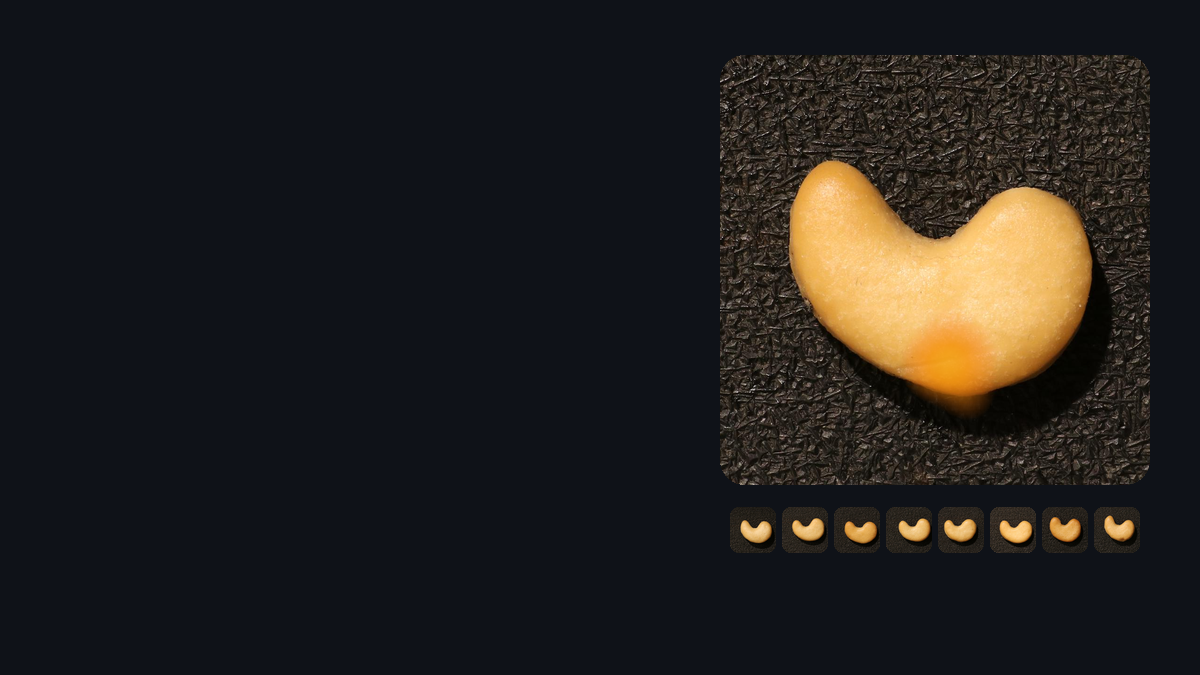
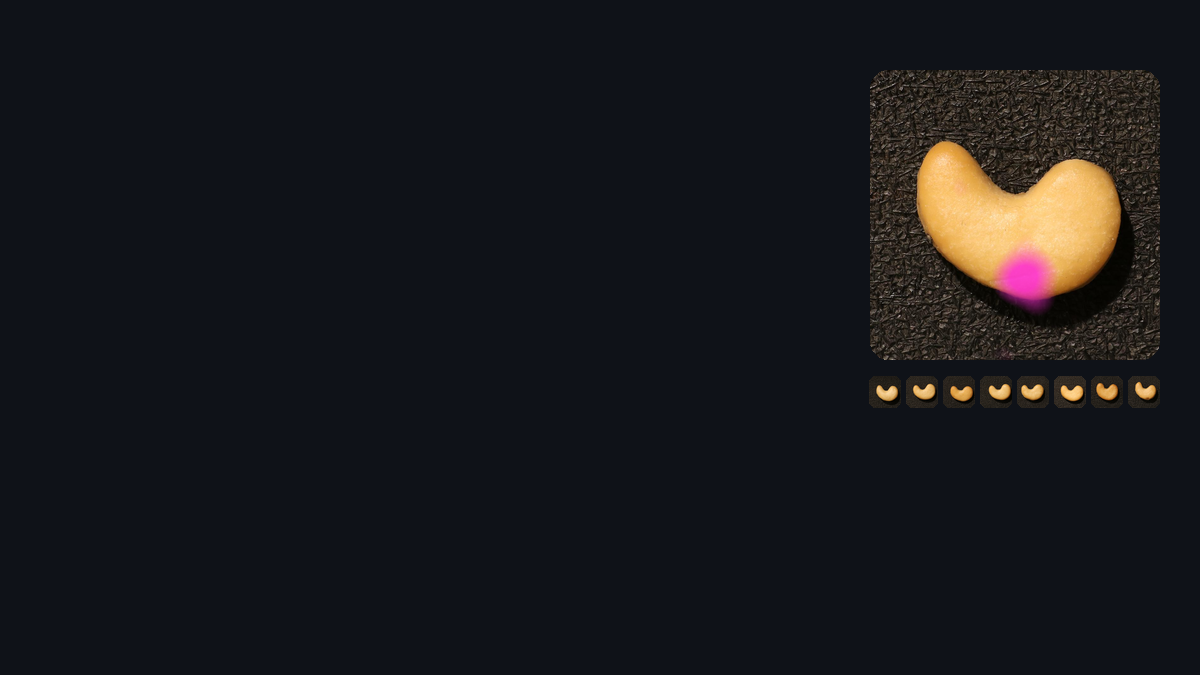
post_images.py (heat figure + cover bg, magenta); video heat in magenta, tighter

Changed region(s): [[0.5858, 0.0622, 0.9867, 0.7156], [0.5858, 0.7467, 0.9558, 0.84]]

diff --git a/scripts/post_images.py b/scripts/post_images.py
@@ -1,0 +1,80 @@
+"""Raster images for the post: the PatchCore heat-map figure and the cover background.
+
+Heat is drawn in magenta: most VisA products (cashew, macaroni, candles, fryum) are yellow or
+orange, and an amber overlay disappears on them.
+  uv run python scripts/post_images.py <site public/blog/<slug> dir> [--maps results/demo/visa-maps]
+"""
+import argparse
+import json
+from pathlib import Path
+
+import numpy as np
+from PIL import Image, ImageDraw, ImageFilter
+
+from jev_inspection import visa
+
+HEAT = np.array([255, 43, 214], np.float32)  # magenta
+GT = (45, 212, 191)  # ground-truth outline, teal
+
+ap = argparse.ArgumentParser()
+ap.add_argument("public", type=Path)
+ap.add_argument("--maps", type=Path, default=Path("results/maps-k16-s0-256"),
+                help="PatchCore k=16 seed 0 maps at 256 px, saved by the main run (--maps-for 16 0)")
+ap.add_argument("--cover", type=Path, default=Path("output/cover-bg.png"))
+a = ap.parse_args()
+root = visa.DEFAULT_ROOT
+IMG = "cashew/Data/Images/Anomaly/086.JPG"
+MASK = "cashew/Data/Masks/Anomaly/086.png"
+
+
+def overlay(img: Image.Image, m: np.ndarray, start=0.55, span=0.35, alpha=0.85) -> Image.Image:
+    """Blend magenta where the map is in the top part of this image's range."""
+    hv = (m - m.min()) / max(1e-6, m.max() - m.min())
+    hv = np.asarray(Image.fromarray((hv * 255).astype(np.uint8)).resize(img.size, Image.BILINEAR)) / 255.0
+    al = (np.clip((hv - start) / span, 0, 1) * alpha)[..., None]
+    return Image.fromarray((np.asarray(img).astype(np.float32) * (1 - al) + HEAT * al).astype(np.uint8))
+
+
+m = np.load(a.maps / "cashew_k16_s0" / (IMG.replace("/", "__") + ".npy")).astype(np.float32)
+im = Image.open(root / IMG).convert("RGB")
+
+# Figure: the photo, and the same photo with the heat and the ground-truth outline.
+side = 560
+h = int(side * im.height / im.width)
+photo = im.resize((side, h), Image.LANCZOS)
+heat = overlay(photo, m)
+gt = Image.open(root / MASK).convert("L").resize((side, h), Image.NEAREST)
+edge = gt.point(lambda v: 255 if v > 0 else 0).filter(ImageFilter.FIND_EDGES).filter(ImageFilter.MaxFilter(3))
+heat.paste(Image.new("RGB", (side, h), GT), (0, 0), edge)
+fig = Image.new("RGB", (side * 2 + 16, h), (19, 23, 34))
+fig.paste(photo, (0, 0))
+fig.paste(heat, (side + 16, 0))
+fig.save(a.public / "cashew-scratch-heatmap.webp", quality=82)
+
+# Cover background: the heat-mapped nut on the right, the eight good cashews of the k = 8 draw below.
+W, H = 1200, 675
+bg = Image.new("RGB", (W, H), (15, 18, 24))
+s = min(im.size) * 0.78
+cx, cy = im.width * 0.5, im.height * 0.52
+box = (int(cx - s / 2), int(cy - s / 2), int(cx + s / 2), int(cy + s / 2))
+sq = 290  # right-hand column only: the title runs to about x = 860
+full = overlay(im, m)
+nut = full.crop(box).resize((sq, sq), Image.LANCZOS)
+rmask = Image.new("L", (sq, sq), 0)
+ImageDraw.Draw(rmask).rounded_rectangle((0, 0, sq - 1, sq - 1), 18, fill=255)
+x0, y0 = W - sq - 40, 70
+bg.paste(nut, (x0, y0), rmask)
+draw = json.loads(visa.FROZEN.read_text())["patchcore_subsets"]["cashew"]["0"]["8"]
+t, gap = 32, 5
+rx, ry = x0 + (sq - (8 * t + 7 * gap)) // 2, y0 + sq + 16
+for i, p in enumerate(draw):
+    g = Image.open(root / p).convert("RGB")
+    ss = min(g.size) * 0.8
+    g = g.crop((int(g.width / 2 - ss / 2), int(g.height / 2 - ss / 2),
+                int(g.width / 2 + ss / 2), int(g.height / 2 + ss / 2))).resize((t, t), Image.LANCZOS)
+    mk = Image.new("L", (t, t), 0)
+    ImageDraw.Draw(mk).rounded_rectangle((0, 0, t - 1, t - 1), 6, fill=255)
+    bg.paste(g, (rx + i * (t + gap), ry), mk)
+a.cover.parent.mkdir(parents=True, exist_ok=True)
+bg.save(a.cover)
+print("wrote", a.public / "cashew-scratch-heatmap.webp", "and", a.cover)

diff --git a/scripts/render_visa_video.py b/scripts/render_visa_video.py
@@ -64,12 +64,12 @@ for p in sel:
     m = np.load(a.maps / (p.replace("/", "__") + ".npy")).astype(np.float32)
     # Colour on the product's own threshold scale, so a good part stays mostly uncoloured.
     lo_m, hi_m = cuts(it.obj, pc)
-    hv = np.clip((m - 0.9 * hi_m) / (0.25 * hi_m), 0, 1)
+    hv = np.clip((m - 0.95 * hi_m) / (0.2 * hi_m), 0, 1)
     hv = np.asarray(Image.fromarray((hv * 255).astype(np.uint8)).resize(img.size, Image.BILINEAR)) / 255.0
     base = np.asarray(img).astype(np.float32)
-    amber = np.array([245, 158, 11], np.float32)
+    heat_rgb = np.array([255, 43, 214], np.float32)  # magenta: amber vanishes on yellow products
     al = (np.clip(hv / 0.5, 0, 1) * 0.85)[..., None]
-    heat = Image.fromarray((base * (1 - al) + amber * al).astype(np.uint8))
+    heat = Image.fromarray((base * (1 - al) + heat_rgb * al).astype(np.uint8))
     htile = tile.copy()
     htile.paste(heat, (ox, oy))
     g = vlm["B0"][p]
@@ -100,7 +100,7 @@ def footer(d):
            "cuts at 5% escapes / 5% rejects per product.", font=f_tiny, fill=MUTED, anchor="ls")
     d.text((W - 24, H - 22), "condados.ai", font=f_tiny, fill=MUTED, anchor="rs")
     d.text((24, H - 42), "Cuts per product: accept below the first, reject above the second, a person in between. "
-           "Heat: PatchCore patches near or above the reject cut.", font=f_tiny, fill=MUTED, anchor="ls")
+           "Magenta: PatchCore patches near or above the reject cut.", font=f_tiny, fill=MUTED, anchor="ls")
 
 
 def belt_frame(t):
